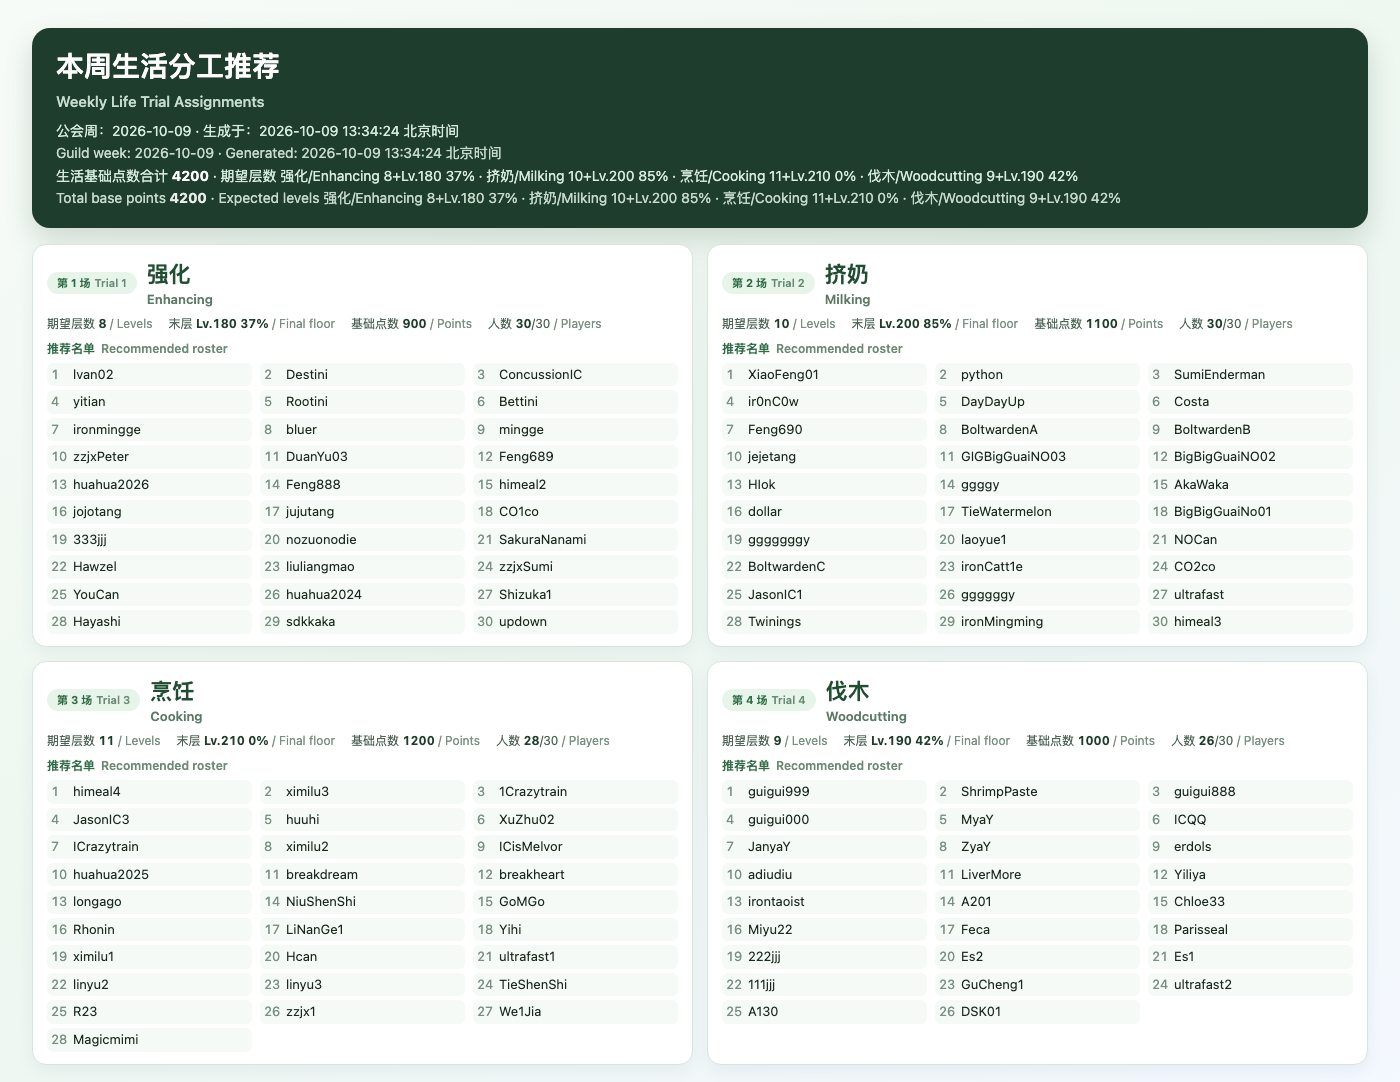
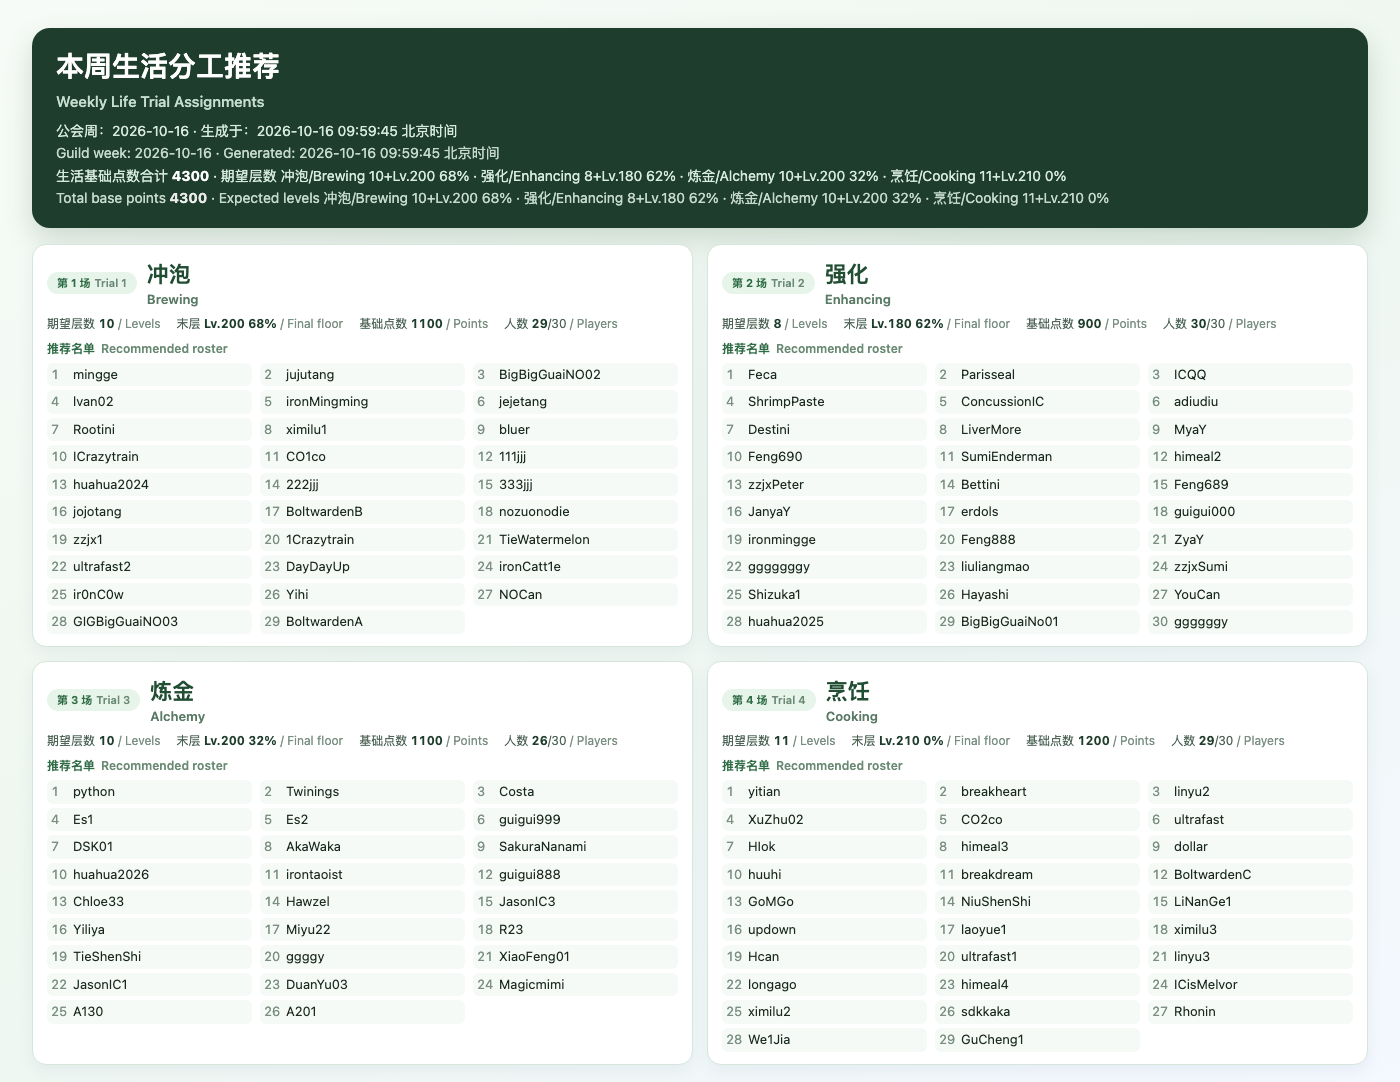
chore: refresh life assignment report (2026-10-16T00:00:00.000Z, 4300 pts)

diff --git a/reports/WI/combat-assignment/index.html b/reports/WI/combat-assignment/index.html
@@ -132,7 +132,7 @@
     <div class="header-text">
       <h1><span class="i18n" data-zh="本周分工" data-en="Weekly Assignments">本周分工</span></h1>
       <div class="meta">
-        <span class="i18n" data-zh="战斗方案：" data-en="Combat plan: ">战斗方案：</span>2026-10-16 09:34:16 北京时间
+        <span class="i18n" data-zh="战斗方案：" data-en="Combat plan: ">战斗方案：</span>2026-10-16 09:59:45 北京时间
         <span class="i18n" data-zh=" · 点选下方条目浏览生活/战斗图片" data-en=" · Pick a tab to browse life/combat images"> · 点选下方条目浏览生活/战斗图片</span>
       </div>
     </div>
@@ -141,31 +141,13 @@
       <button type="button" class="lang-btn" data-lang="en">English</button>
     </div>
   </header>
-  <pre class="summary" id="summaryBlock">WI 可用人员重排组合搜索（不按报名，开发实验不可转正）
-可用 93 人；不可用 19 人；最优分区：phys-chameleon-magic-badger-heal50
-规则：物理主体去变色龙、火水主体去双獾；自然奶比分区搜索，两边保留覆盖，超额物理补双獾；两边各留至少2个必要覆盖（烟爆/法力喷泉/冰霜爆裂/粉尘/疫病/破甲/碎裂/致残/血刃）；自然奶按武器强化/魔法改输出 x（chameleon=0，badger=12），输出技能元素增幅/粉尘/菌幕/缠绕，剩余自然仍群疗；非光环默认复活、前x输出改疯狂（chameleon=32，badger=20）；攻击≥110；双 Boss 人员互斥；无复制人。
-【试炼变色龙】48人；3次 10–10 层；DPS≈3775；末层平均22.5%；死亡 2–4；前32输出疯狂
-技能包：st-ranged-frenzy-pestilent
-职业：弓2 弩16 水1 自7 盾2 枪1 剑3 锤16
-职责：坦克2 奶7 减10 输出29
-名单：jojotang(弓)、ShrimpPaste(弓)、Yihi(弩)、ximilu1(弩)、guigui000(弩)、guigui888(弩)、guigui999(弩)、Hawzel(弩)、himeal2(弩)、ICQQ(弩)、zzjx1(弩)、TieShenShi(弩)、linyu3(弩)、longago(弩)、mingge(弩)、Rootini(弩)、NOCan(弩)、R23(弩)、ICrazytrain(水)、We1Jia(自)、LiverMore(自)、Parisseal(自)、liuliangmao(自)、jujutang(自)、linyu2(自)、LiNanGe1(自)、AkaWaka(盾)、ultrafast1(盾)、DayDayUp(枪)、huahua2025(剑)、GoMGo(剑)、SumiEnderman(剑)、BigBigGuaiNO02(锤)、bluer(锤)、ConcussionIC(锤)、DuanYu03(锤)、Feca(锤)、nozuonodie(锤)、GIGBigGuaiNO03(锤)、Rhonin(锤)、HIok(锤)、huahua2024(锤)、huahua2026(锤)、huuhi(锤)、ironmingge(锤)、JasonIC3(锤)、updown(锤)、lvan02(锤)
-【试炼獾】45人（每层2只）；3次 7–7 层；DPS≈3164；末层平均76.1%；死亡 0–0；前20输出疯狂；12名自然奶改输出
-技能包：aoe-precision-rain-smoke2
-职业：弓2 弩9 水2 自14 盾2 枪3 剑3 锤10
-职责：坦克2 奶2 减10 输出31
-名单：333jjj(弓)、ggggy(弓)、BoltwardenA(弩)、BoltwardenB(弩)、NiuShenShi(弩)、ironCatt1e(弩)、TieWatermelon(弩)、ultrafast2(弩)、CO2co(弩)、BoltwardenC(弩)、ir0nC0w(弩)、ironMingming(水)、Miyu22(水)、1Crazytrain(自)、222jjj(自)、breakdream(自)、breakheart(自)、Destini(自)、erdols(自)、ggggggy(自)、Hayashi(自)、Hcan(自)、himeal4(自)、ICisMelvor(自)、ximilu2(自)、Yiliya(自)、YouCan(自)、himeal3(盾)、Shizuka1(盾)、Bettini(枪)、CO1co(枪)、XiaoFeng01(枪)、adiudiu(剑)、laoyue1(剑)、ximilu3(剑)、111jjj(锤)、BigBigGuaiNo01(锤)、gggggggy(锤)、GuCheng1(锤)、SakuraNanami(锤)、ultrafast(锤)、jejetang(锤)、yitian(锤)、zzjxPeter(锤)、zzjxSumi(锤)
-全库不可用：Feng689/自(魔法等级不足（123&lt;125）)、Feng690/弩(缺少T95或精炼★T95武器)、dollar/剑(缺少T95或精炼★T95武器)、Costa/火(缺少T95或精炼★T95武器)、Twinings/火(缺少T95或精炼★T95武器)、python/火(缺少T95或精炼★T95武器)、XuZhu02/剑(近战等级不足（121&lt;125）)、A130/自(缺少T95或精炼★T95武器)、A201/弩(远程等级不足（124&lt;125）)、DSK01/弩(攻击等级不足（99&lt;110）)、sdkkaka/火(缺少T95或精炼★T95武器)、JasonIC1/枪(缺少T95或精炼★T95武器)、JanyaY/弩(远程等级不足（118&lt;125）)、MyaY/弩(缺少T95或精炼★T95武器)、ZyaY/弩(缺少T95或精炼★T95武器)、irontaoist/锤(缺少T95或精炼★T95武器)、Magicmimi/自(魔法等级不足（123&lt;125）)、Chloe33/盾(盾超额（防御128较低，每边只带2盾）)、Feng888/盾(盾超额（防御127较低，每边只带2盾）)
-
-本周：2026-10-16 08:00 至 2026-10-23 08:00（北京时间）；变色龙 + 双獾。
-成员输入：固定于 2026-10-16T01:24:41.546Z；可用 93 人，其中 38 人为当日快照，其余沿用最新可得快照。
-技能口径：普通技能缺失或低于 Lv40 时按 Lv40 模拟；本次涉及 25 个已装备技能。
-WI 特殊规则：单体队弓弩合并，仅疫病等级最高3人保留疫病，其余换稳定；每个 Boss 队仅碎裂等级最高3名锤保留碎裂，其余换重锤。按已上传原始等级排名；生存优先。</pre>
+  
   <nav class="tabs" aria-label="Weekly assignment images">
       <button type="button" class="tab active" data-index="0" data-src-zh="../life-assignment/latest.png" data-src-en="../life-assignment/latest.png" data-label-zh="生活分工" data-label-en="Life Trials"><span class="i18n" data-zh="生活分工" data-en="Life Trials">生活分工</span></button>
-      <button type="button" class="tab" data-index="1" data-src-zh="1-chameleon-summary.png" data-src-en="1-chameleon-summary.en.png" data-label-zh="变色龙 · 阵容与技能" data-label-en="Trial Chameleon · Roster &amp; Skills"><span class="i18n" data-zh="变色龙 · 阵容与技能" data-en="Trial Chameleon · Roster &amp; Skills">变色龙 · 阵容与技能</span></button>
-      <button type="button" class="tab" data-index="2" data-src-zh="1-chameleon-members.png" data-src-en="1-chameleon-members.en.png" data-label-zh="变色龙 · 成员明细" data-label-en="Trial Chameleon · 48 Member Breakdown"><span class="i18n" data-zh="变色龙 · 成员明细" data-en="Trial Chameleon · 48 Member Breakdown">变色龙 · 成员明细</span></button>
-      <button type="button" class="tab" data-index="3" data-src-zh="2-badger-summary.png" data-src-en="2-badger-summary.en.png" data-label-zh="獾 · 阵容与技能" data-label-en="Trial Badger · Roster &amp; Skills"><span class="i18n" data-zh="獾 · 阵容与技能" data-en="Trial Badger · Roster &amp; Skills">獾 · 阵容与技能</span></button>
-      <button type="button" class="tab" data-index="4" data-src-zh="2-badger-members.png" data-src-en="2-badger-members.en.png" data-label-zh="獾 · 成员明细" data-label-en="Trial Badger · 45 Member Breakdown"><span class="i18n" data-zh="獾 · 成员明细" data-en="Trial Badger · 45 Member Breakdown">獾 · 成员明细</span></button>
+      <button type="button" class="tab" data-index="1" data-src-zh="1-chameleon-summary.png" data-src-en="1-chameleon-summary.en.png" data-label-zh="变色龙 · 阵容与技能" data-label-en="Chameleon · Roster &amp; Skills"><span class="i18n" data-zh="变色龙 · 阵容与技能" data-en="Chameleon · Roster &amp; Skills">变色龙 · 阵容与技能</span></button>
+      <button type="button" class="tab" data-index="2" data-src-zh="1-chameleon-members.png" data-src-en="1-chameleon-members.en.png" data-label-zh="变色龙 · 成员明细" data-label-en="Chameleon · Members"><span class="i18n" data-zh="变色龙 · 成员明细" data-en="Chameleon · Members">变色龙 · 成员明细</span></button>
+      <button type="button" class="tab" data-index="3" data-src-zh="2-badger-summary.png" data-src-en="2-badger-summary.en.png" data-label-zh="獾 · 阵容与技能" data-label-en="Badger · Roster &amp; Skills"><span class="i18n" data-zh="獾 · 阵容与技能" data-en="Badger · Roster &amp; Skills">獾 · 阵容与技能</span></button>
+      <button type="button" class="tab" data-index="4" data-src-zh="2-badger-members.png" data-src-en="2-badger-members.en.png" data-label-zh="獾 · 成员明细" data-label-en="Badger · Members"><span class="i18n" data-zh="獾 · 成员明细" data-en="Badger · Members">獾 · 成员明细</span></button>
   </nav>
   <main>
     <p class="caption" id="caption"></p>

diff --git a/reports/WI/life-assignment/README.md b/reports/WI/life-assignment/README.md
@@ -1,8 +1,8 @@
 # 本周生活分工
 
-- 公会周：`2026-10-09T00:00:00.000Z`
-- 生成时间：`2026-10-09T05:34:24.183Z`
-- 基础点数合计：`4200`
+- 公会周：`2026-10-16T00:00:00.000Z`
+- 生成时间：`2026-10-16T01:59:45.908Z`
+- 基础点数合计：`4300`
 
 图片：https://raw.githubusercontent.com/xiahuaaaa/mwi-guild-trial-helper/main/reports/WI/life-assignment/latest.png
 JSON：https://raw.githubusercontent.com/xiahuaaaa/mwi-guild-trial-helper/main/reports/WI/life-assignment/latest.json
